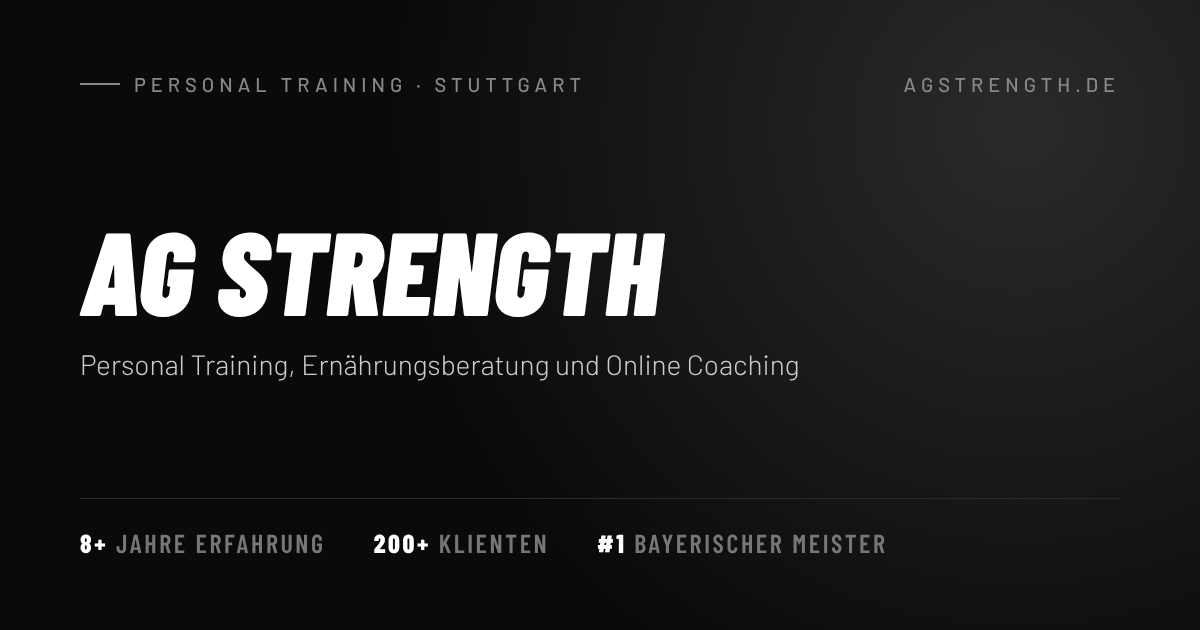
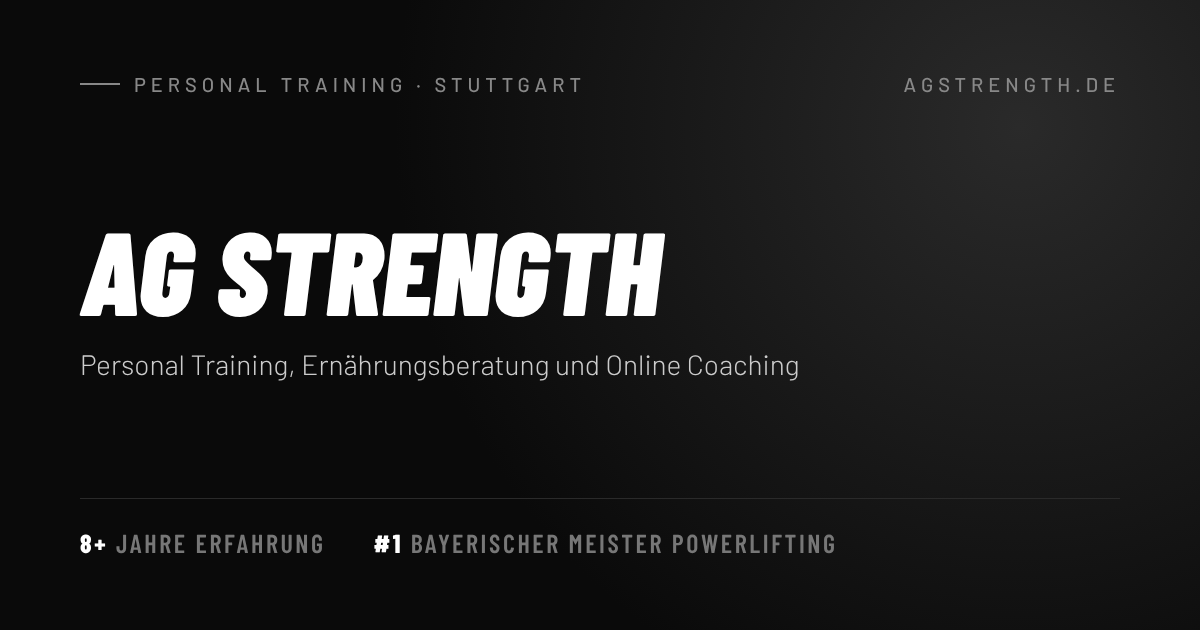
200+ Klienten und 100% Betreuung entfernt (Zahlenbalken, Meta, Vorschaubild)
Claude-Session: https://claude.ai/code/session_012k3wTE5a24wrPVEhrUG323

Changed region(s): [[0.3083, 0.8444, 0.74, 0.8746]]

diff --git a/index.html b/index.html
@@ -4,7 +4,7 @@
     <meta charset="UTF-8">
     <meta name="viewport" content="width=device-width, initial-scale=1.0">
     <title>Personal Trainer Stuttgart | Aaron — AG Strength</title>
-    <meta name="description" content="Personal Training, Ernährungsberatung und Online Coaching in Stuttgart. Über 8 Jahre Erfahrung, 200+ betreute Klienten, Bayerischer Meister im Powerlifting. Kostenloses Erstgespräch.">
+    <meta name="description" content="Personal Training, Ernährungsberatung und Online Coaching in Stuttgart. Über 8 Jahre Erfahrung, Bayerischer Meister im Powerlifting. Kostenloses Erstgespräch.">
     <link rel="canonical" href="https://agstrength.de/">
     <meta name="theme-color" content="#0a0a0a">
 
@@ -16,7 +16,7 @@
     <meta property="og:locale" content="de_DE">
     <meta property="og:site_name" content="AG Strength">
     <meta property="og:title" content="AG Strength – Personal Training in Stuttgart">
-    <meta property="og:description" content="Personal Training, Ernährungsberatung und Online Coaching in Stuttgart. Über 8 Jahre Erfahrung, 200+ betreute Klienten, Bayerischer Meister im Powerlifting. Kostenloses Erstgespräch.">
+    <meta property="og:description" content="Personal Training, Ernährungsberatung und Online Coaching in Stuttgart. Über 8 Jahre Erfahrung, Bayerischer Meister im Powerlifting. Kostenloses Erstgespräch.">
     <meta property="og:url" content="https://agstrength.de/">
     <meta property="og:image" content="https://agstrength.de/og-image.png">
     <meta property="og:image:width" content="1200">
@@ -128,8 +128,6 @@
 <section class="stats">
     <div class="stats-grid">
         <div class="stat-item"><div class="stat-num">8+</div><div class="stat-lbl">Jahre Erfahrung</div></div>
-        <div class="stat-item"><div class="stat-num">200+</div><div class="stat-lbl">Betreute Klienten</div></div>
-        <div class="stat-item"><div class="stat-num">100%</div><div class="stat-lbl">Individuelle Betreuung</div></div>
         <div class="stat-item"><div class="stat-num">#1</div><div class="stat-lbl">Bayerischer Meister<br>Powerlifting</div></div>
     </div>
     <div class="location-strip">Stuttgart &nbsp;·&nbsp; Persönlich &amp; Online</div>

diff --git a/css/style.css b/css/style.css
@@ -572,3 +572,7 @@ a.back-link { color: #888; }
 /* ── Online Coaching: Kettlebell-Foto ── */
 .sub-hero-oc .sub-hero-bg { background-image: url('/img/aaron-kettlebell-stand.webp'); background-position: 50% 57%; }
 @media (min-width: 900px) { .sub-hero-oc .sub-hero-bg { background-position: 50% 36%; } }
+
+/* ── Zahlenbalken: 2 Werte ── */
+.stats-grid { grid-template-columns: 1fr 1fr; }
+@media (min-width: 900px) { .stats-grid { grid-template-columns: repeat(2, minmax(0, 320px)); justify-content: center; gap: 20px 120px; } }
